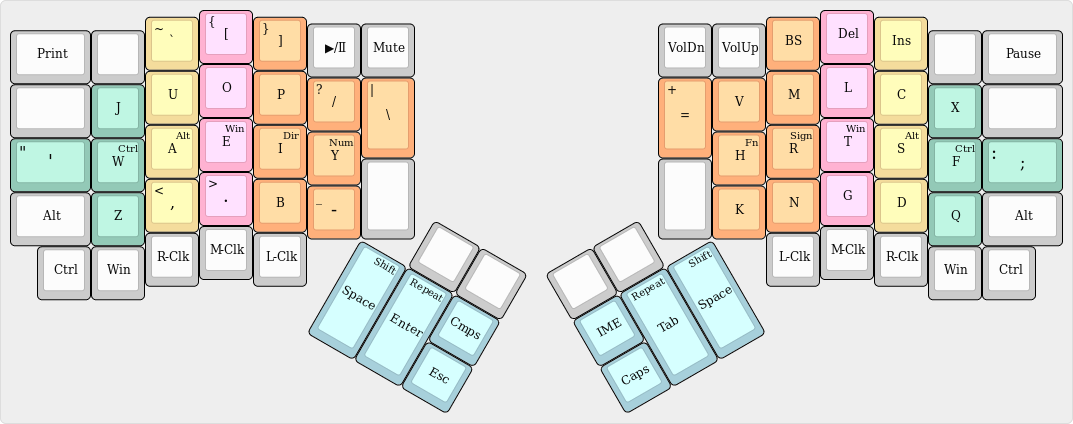
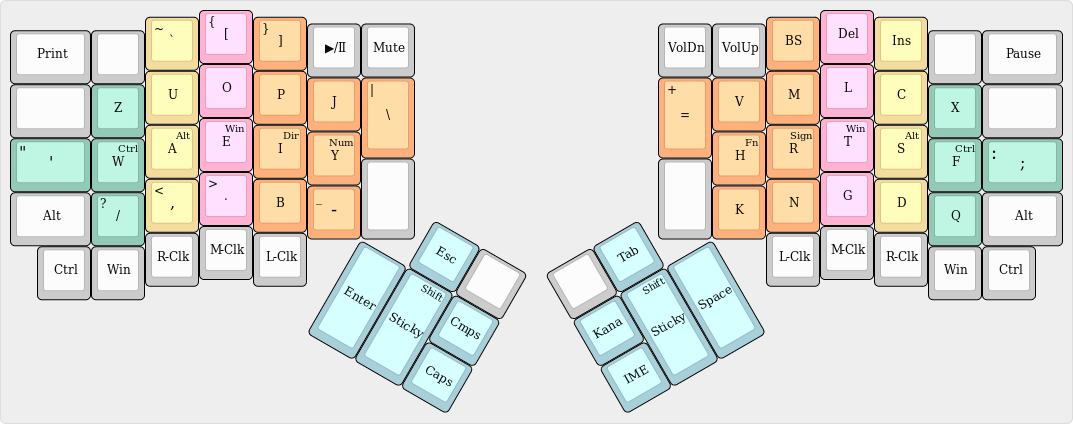
update layout

diff --git a/keyboards/ergodox/keymaps/youhei/keymap.c b/keyboards/ergodox/keymaps/youhei/keymap.c
@@ -4,14 +4,14 @@ const uint16_t PROGMEM keymaps[][MATRIX_ROWS][MATRIX_COLS] = {
 	[L_BASE] = KEYMAP(
 		// left hand
 		KC_PSCR, KC_NO, KC_GRV, KC_LBRC, KC_RBRC, KC_MPLY, KC_MUTE,
-		KC_NO, KC_J, KC_U, KC_O, KC_P, KC_SLSH, KC_BSLS,
+		KC_NO, KC_Z, KC_U, KC_O, KC_P, KC_J, KC_BSLS,
 		KC_QUOT, LCTL_T(KC_W), LALT_T(KC_A), LGUI_T(KC_E), DIR_T(KC_I), NUM_T(KC_Y),
-		KC_LALT, KC_Z, KC_COMM, KC_DOT, KC_B, KC_MINS, KC_NO,
+		KC_LALT, KC_SLSH, KC_COMM, KC_DOT, KC_B, KC_MINS, KC_NO,
 		KC_LCTL, KC_LGUI, KC_RCLK, KC_MCLK, KC_LCLK,
 		// thumb
-		KC_NO, KC_NO,
-		KC_CMPS,
-		LSFT_T(KC_SPC), LRPT_T(KC_ENT), KC_ESC,
+		KC_ESC, KC_NO,
+		KC_MULTI,
+		KC_ENT, OS_SFT, KC_CAPS,
 		// right hand
 		KC_VOLD, KC_VOLU, KC_BSPC, KC_DEL, KC_INS, KC_NO, KC_PAUS,
 		KC_EQL, KC_V, KC_M, KC_L, KC_C, KC_X, KC_NO,
@@ -19,53 +19,9 @@ const uint16_t PROGMEM keymaps[][MATRIX_ROWS][MATRIX_COLS] = {
 		KC_NO, KC_K, KC_N, KC_G, KC_D, KC_Q, KC_LALT,
 		KC_LCLK, KC_MCLK, KC_RCLK, KC_RGUI, KC_RCTL,
 		// thumb
-		KC_NO, KC_NO,
-		KC_TGIM,
-		KC_CAPS, RRPT_T(KC_TAB), RSFT_T(KC_SPC)
-	),
-	[L_LREPEAT] = KEYMAP(
-		// left hand
-		KC_TRNS, KC_TRNS, KC_TRNS, KC_TRNS, KC_TRNS, KC_TRNS, KC_TRNS,
-		KC_TRNS, KC_TRNS, KC_TRNS, KC_TRNS, KC_TRNS, KC_TRNS, KC_TRNS,
-		KC_TRNS, KC_TRNS, KC_TRNS, KC_TRNS, KC_TRNS, KC_TRNS,
-		KC_TRNS, KC_TRNS, KC_TRNS, KC_TRNS, KC_TRNS, KC_TRNS, KC_TRNS,
-		KC_TRNS, KC_TRNS, KC_TRNS, KC_TRNS, KC_TRNS,
-		// thumb
-		KC_TRNS, KC_TRNS,
-		KC_TRNS,
-		KC_TRNS, KC_TRNS, KC_TRNS,
-		// right hand
-		KC_TRNS, KC_TRNS, KC_TRNS, KC_TRNS, KC_TRNS, KC_TRNS, KC_TRNS,
-		KC_TRNS, KC_TRNS, KC_TRNS, KC_TRNS, KC_TRNS, KC_TRNS, KC_TRNS,
-		KC_H, KC_R, KC_T, KC_S, KC_F, KC_TRNS,
-		KC_TRNS, KC_TRNS, KC_TRNS, KC_TRNS, KC_TRNS, KC_TRNS, KC_TRNS,
-		KC_TRNS, KC_MCLK, KC_TRNS, KC_TRNS, KC_TRNS,
-		// thumb
-		KC_TRNS, KC_TRNS,
-		KC_TRNS,
-		KC_TRNS, KC_TAB, KC_SPC
-	),
-	[L_RREPEAT] = KEYMAP(
-		// left hand
-		KC_TRNS, KC_TRNS, KC_TRNS, KC_TRNS, KC_TRNS, KC_TRNS, KC_TRNS,
-		KC_TRNS, KC_TRNS, KC_TRNS, KC_TRNS, KC_TRNS, KC_TRNS, KC_TRNS,
-		KC_TRNS, KC_W, KC_A, KC_E, KC_I, KC_Y,
-		KC_TRNS, KC_TRNS, KC_TRNS, KC_TRNS, KC_TRNS, KC_TRNS, KC_TRNS,
-		KC_TRNS, KC_TRNS, KC_TRNS, KC_MCLK, KC_TRNS,
-		// thumb
-		KC_TRNS, KC_TRNS,
-		KC_TRNS,
-		KC_SPC, KC_ENT, KC_TRNS,
-		// right hand
-		KC_TRNS, KC_TRNS, KC_TRNS, KC_TRNS, KC_TRNS, KC_TRNS, KC_TRNS,
-		KC_TRNS, KC_TRNS, KC_TRNS, KC_TRNS, KC_TRNS, KC_TRNS, KC_TRNS,
-		KC_TRNS, KC_TRNS, KC_TRNS, KC_TRNS, KC_TRNS, KC_TRNS,
-		KC_TRNS, KC_TRNS, KC_TRNS, KC_TRNS, KC_TRNS, KC_TRNS, KC_TRNS,
-		KC_TRNS, KC_TRNS, KC_TRNS, KC_TRNS, KC_TRNS,
-		// thumb
-		KC_TRNS, KC_TRNS,
-		KC_TRNS,
-		KC_TRNS, KC_TRNS, KC_TRNS
+		KC_NO, KC_TAB,
+		KC_MHEN,
+		KC_HENK, OS_SFT, KC_SPC
 	),
 	[L_SIGN] = KEYMAP(
 		// left hand

diff --git a/keyboards/ergodox/keymaps/youhei/youhei.h b/keyboards/ergodox/keymaps/youhei/youhei.h
@@ -6,19 +6,16 @@
 
 enum Layer {
 	L_BASE,
-	L_LREPEAT,
-	L_RREPEAT,
 	L_SIGN,
 	L_DIRECTION,
 	L_NUMBER,
 	L_FUNCTION,
 };
 
+
 /*
 enum Macro {
-	M_NONE,
 };
-
 enum Function {
 	F_GUI_T_MCLK,
 };
@@ -40,8 +37,6 @@ enum Keycode_User {
 #define DIR_T(kc) LT(L_DIRECTION, kc)
 #define NUM_T(kc) LT(L_NUMBER, kc)
 #define FN_T(kc) LT(L_FUNCTION, kc)
-#define LRPT_T(kc) LT(L_LREPEAT, kc)
-#define RRPT_T(kc) LT(L_RREPEAT, kc)
 
 // click (left, middle, right)
 #define KC_LCLK KC_BTN1
@@ -50,9 +45,6 @@ enum Keycode_User {
 
 // aliases more meaningful for me
 #define KC_MULTI RALT(KC_NO)
-#define KC_CMPS KC_MULTI
-#define KC_TOGGLE_INPUT_METHOD KC_HENK
-#define KC_TGIM KC_TOGGLE_INPUT_METHOD
 
 // tapping key with special key
 //#define GUI_T_MCLK F(A_GUI_T_MCLK)
